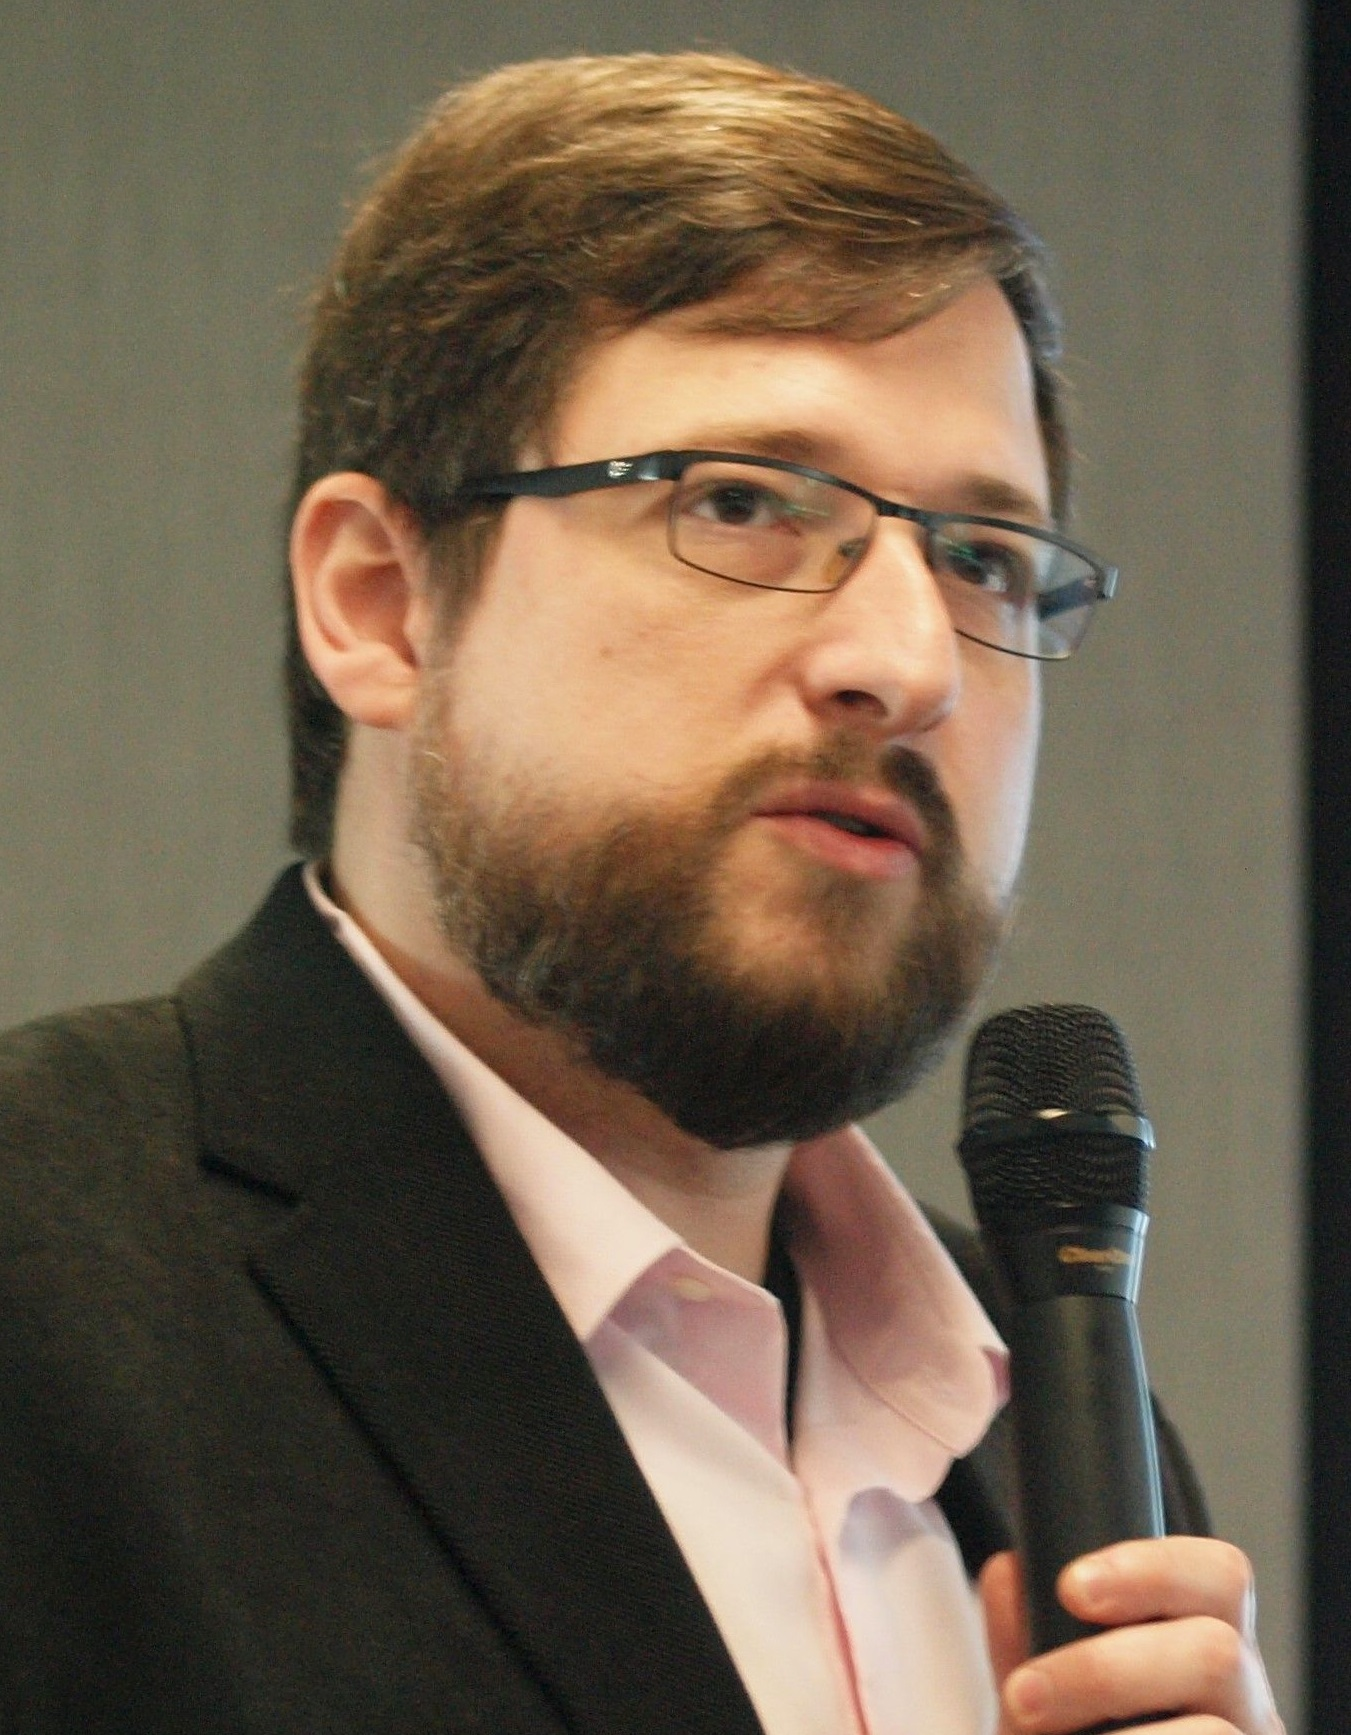
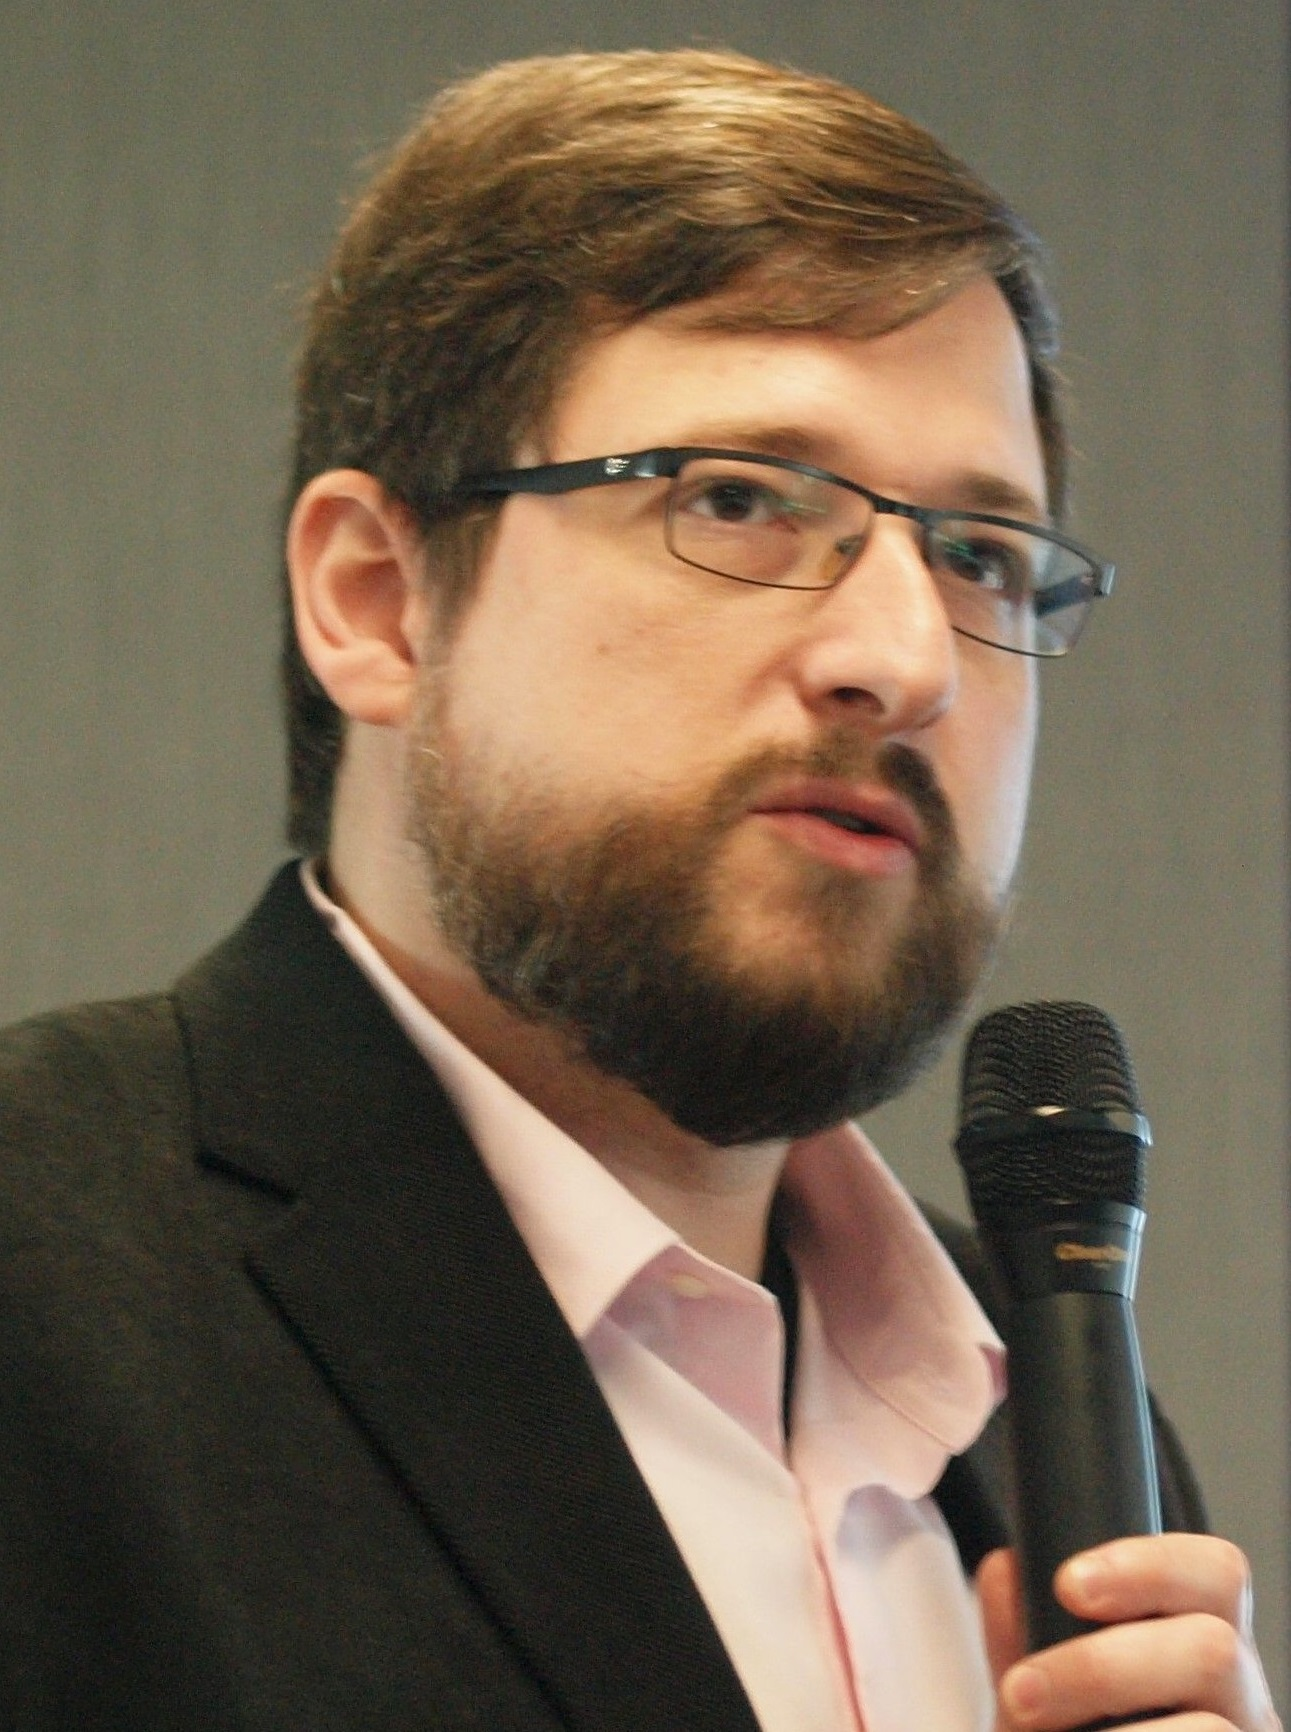
update

Changed region(s): [[0.1859, 0.0, 1.0, 1.0], [0.4338, 0.4677, 0.4648, 0.4988]]

diff --git a/index.html b/index.html
@@ -5,7 +5,7 @@ title: Bernhard Kainz
 
 <article class="home-content-main">
 <h1>Bernhard Kainz</h1>
-<p><img src="team/BernhardKainz.jpg" alt="Bernhard Kainz 2019" class="portrait-image" style="width:143px;height:163px;float:left;padding-right:15px;border:none" align="left">
+<p><img src="team/BernhardKainz.jpg" alt="Bernhard Kainz 2019" class="portrait-image" style="width:215px;height:288px;float:left;padding-right:15px;border:none" align="left">
 
 <p>I am Professor at <a href="https://www.fau.eu/"> Friedrich-Alexander-University Erlangen-Nuremberg</a> where I head the <a href="https://www.idea.tf.fau.eu/">Image Data Exploration and Analysis Lab (IDEA Lab)</a> and I am Reader (= US/EU Associate Professor++) in the <a href="http://wp.doc.ic.ac.uk/bkainz/">Department of Computing</a> at <a href="https://www.imperial.ac.uk/">Imperial College London</a> where I lead the <a href="http://wp.doc.ic.ac.uk/bkainz/">human-in-the-loop computing group</a> and co-lead the <a href="https://biomedia.doc.ic.ac.uk/">biomedical image analysis research group (BioMedIA)</a>. We are a post-pandemic, borderless research group, across nations and institutions. 
 <p>
@@ -23,5 +23,5 @@ My teaching is focused on real-time computing, Machine Learning, Image Analysis,
 I am a scientific advisor for <a href="https://thinksono.com/">ThinkSono</a> and <a href="https://www.cydarmedical.com/">Cydar Medical</a>.
 <p>
 
-<a class="twitter-timeline" href="https://twitter.com/BernhardKainz1?ref_src=twsrc%5Etfw">Tweets by BernhardKainz1</a> <script async src="https://platform.twitter.com/widgets.js" charset="utf-8"></script>
+
 
